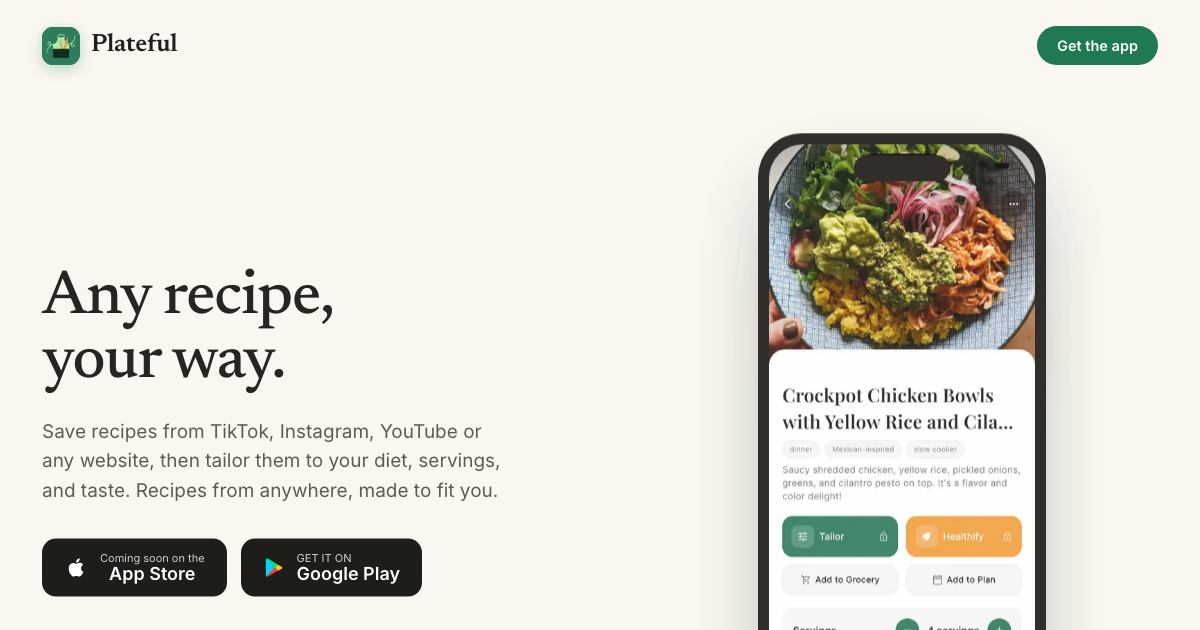
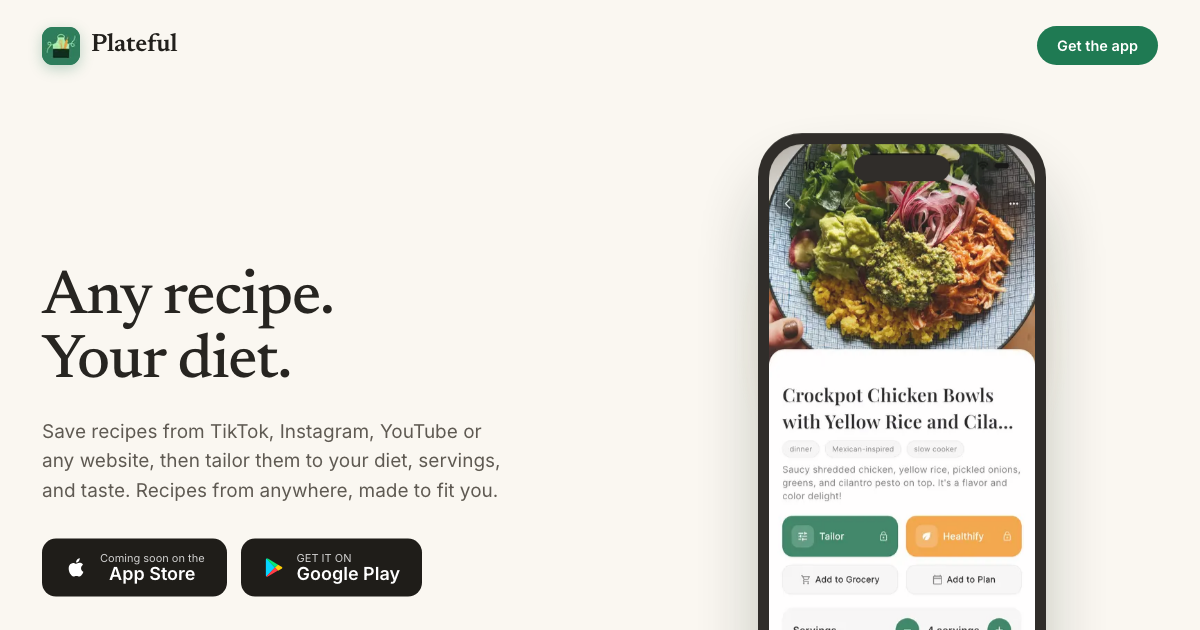
Update tagline to 'Any recipe. Your diet.' across hero and meta tags

Changed region(s): [[0.0308, 0.5127, 0.2467, 0.6333]]

diff --git a/app/layout.tsx b/app/layout.tsx
@@ -22,7 +22,7 @@ const siteUrl = "https://plateful.app";
 export const metadata: Metadata = {
   metadataBase: new URL(siteUrl),
   title: {
-    default: "Plateful: Any Recipe, Your Way",
+    default: "Plateful: Any Recipe. Your Diet.",
     template: "%s | Plateful",
   },
   description:
@@ -50,14 +50,14 @@ export const metadata: Metadata = {
     type: "website",
     url: siteUrl,
     siteName: "Plateful",
-    title: "Plateful: Any Recipe, Your Way",
+    title: "Plateful: Any Recipe. Your Diet.",
     description:
       "Save recipes from TikTok, Instagram, YouTube or any website, then tailor them to your diet, servings, and taste.",
     locale: "en_US",
   },
   twitter: {
     card: "summary_large_image",
-    title: "Plateful: Any Recipe, Your Way",
+    title: "Plateful: Any Recipe. Your Diet.",
     description:
       "Save recipes from anywhere and tailor them to your diet, servings, and taste.",
   },

diff --git a/app/page.tsx b/app/page.tsx
@@ -112,9 +112,9 @@ export default function Home() {
       <header className="container hero">
         <Reveal>
           <h1>
-            Any recipe,
+            Any recipe.
             <br />
-            your way.
+            Your diet.
           </h1>
           <p className="hero-sub">
             Save recipes from TikTok, Instagram, YouTube or any website, then
